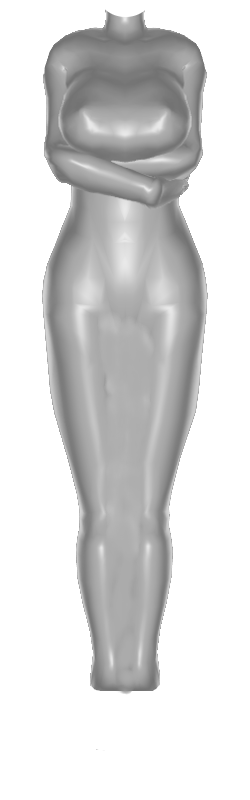
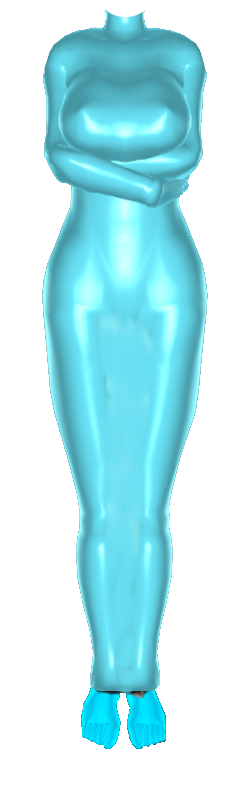
dodo

diff --git a/BondageClub/Assets/Female3DCG/Female3DCG.js b/BondageClub/Assets/Female3DCG/Female3DCG.js
@@ -121,7 +121,7 @@ var AssetFemale3DCG = [
 		ParentColor: "Bra",
 		Clothing: true,
 		Underwear: true,
-		AllowPose: ["LegsClosed", "Kneel", "FeetDress"],
+		AllowPose: ["LegsClosed", "Kneel"],
 		Color: ["Default", "#cccccc", "#aaaaaa", "#888888", "#666666", "#444444", "#222222", "#aa8080", "#80aa80", "#8080aa", "#aaaa80", "#80aaaa", "#aa80aa", "#cc3333", "#33cc33", "#3333cc", "#cccc33", "#33cccc", "#cc33cc"],
 		Left: 125,
 		Top: 400,
@@ -287,7 +287,7 @@ var AssetFemale3DCG = [
 		AllowColorize: false,
 		ParentSize: "BodyUpper",
 		ParentColor: "BodyUpper",
-		AllowPose: ["LegsClosed", "Kneel", "FeetDress"],
+		AllowPose: ["LegsClosed", "Kneel"]
 		Color: ["White", "Asian", "Black"],
 		Top: 462,
 		Asset: ["Small", "Normal", "Large", "XLarge"]
@@ -444,12 +444,12 @@ var AssetFemale3DCG = [
 			{ Name: "MermaidRopeTie", Value: 30, Time: 15, Difficulty: 3, SetPose: ["LegsClosed"] },
 			{ Name: "LeatherLegCuffs", Value: 30, Time: 10, Difficulty: 2, Priority: 20, AllowPose: ["LegsClosed"], Extended: true, AllowLock: true, AllowEffect: ["Block", "Prone"], AllowType: ["Closed"] },
 			{
-				Name: "LegBinder", DefaultColor: "#70C0C0", Value: 150, SetPose: ["LegsClosed"], Hide: ["Shoes", "Socks"], Block: ["ClothLower", "ItemFeet"], Effect: ["Prone"], Time: 30, RemoveTime: 20, Difficulty: 15, AllowLock: true, Prerequisite: "NotKneeling",
-				Layer: [
-					{ Name: "Latex", AllowColorize: true },
-					{ Name: "Belts", AllowColorize: false }
-				]
-			},
+                Name: "LegBinder", Value: 150, SetPose: ["LegsClosed"], Hide: ["Shoes", "Socks", "ClothLower"], HideItem: ["ItemFeetNylonRope", "ItemFeetHempRope", "ItemFeetLeatherAnkleCuffs", "ItemFeetMermaidRopeTie"], Effect: ["Prone"], Time: 30, RemoveTime: 20, Difficulty: 15, AllowLock: true, Prerequisite: "NotKneeling",
+                Layer: [
+                    { Name: "Latex", AllowColorize: true },
+                    { Name: "Belts", AllowColorize: false }
+                ]
+            },
 			AssetSpankingToys
 		]
 	},
@@ -657,7 +657,7 @@ var AssetFemale3DCG = [
 			{ Name: "BitchSuit", DefaultColor: "#C08080", Random: false, SelfBondage: false, SelfUnlock: false, Value: 250, SetPose: ["BackElbowTouch", "Kneel"], Hide: ["Cloth", "ClothLower", "BodyLower", "Shoes", "Socks"], Block: ["ItemPelvis", "ItemTorso", "ItemBreast", "ItemHands"], Effect: ["Block", "Prone", "ForceKneel"], Time: 40, RemoveTime: 30, Difficulty: 15, AllowLock: true, Prerequisite: "NotSuspended" },
 			{ Name: "CollarLeashHolding", Random: false, SelfBondage: false, Priority: 34, Value: -1, Time: 3, RemoveTime: 3, Difficulty: 1, Prerequisite: "NotSuspended" },
 			{
-			  Name: "StraitDress", DefaultColor: "#70C0C0", Random: false, SelfBondage: false, SelfUnlock: false, Value: 200, SetPose: ["BackElbowTouch", "FeetDress"], Hide: ["Cloth", "ClothLower", "Shoes"], Block: ["ItemPelvis", "ItemTorso", "ItemBreast", "ItemHands", "ItemFeet", "ItemNipples", "ItemVulva", "ItemLegs", "ItemButt"], Effect: ["Block", "Prone"], Time: 40, RemoveTime: 30, Difficulty: 15, AllowLock: true, Prerequisite: "NotKneeling",
+			    Name: "StraitDress", AllowPose: ["Kneel"], Random: false, SelfBondage: false, SelfUnlock: false, Value: 200, SetPose: ["BackElbowTouch", "LegsClosed"], Hide: ["Socks", "BodyLower", "Cloth", "ClothLower", "Shoes"], Block: ["ItemPelvis", "ItemTorso", "ItemBreast", "ItemHands", "ItemFeet", "ItemNipples", "ItemVulva", "ItemLegs", "ItemButt"], Effect: ["Block", "Prone"], HideItem: ["ItemLegsLegBinder", "ItemLegsLeatherLegCuffs", "ItemLegsMermaidRopeTie", "ItemLegsDuctTape", "ItemLegsLeatherBelt", "ItemLegsHempRope", "ItemLegsNylonRope", "ItemFeetNylonRope", "ItemFeetHempRope", "ItemFeetLeatherBelt", "ItemFeetIrish8Cuffs", "ItemFeetDuctTape", "ItemFeetMermaidRopeTie", "ItemFeetLeatherAnkleCuffs"], Time: 40, RemoveTime: 30, Difficulty: 15, AllowLock: true, Prerequisite: "NotSuspended",
 				Layer: [
 					{ Name: "Latex", AllowColorize: true },
 					{ Name: "Belts", AllowColorize: false }
